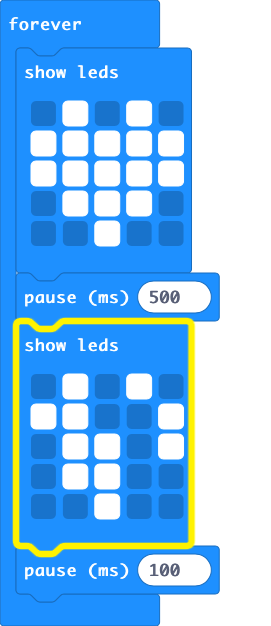
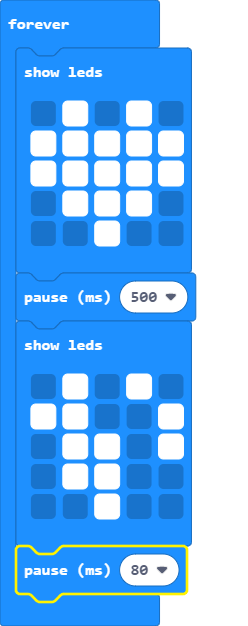
Update main.blocks, main.ts

diff --git a/main.ts b/main.ts
@@ -14,5 +14,5 @@ basic.forever(function () {
         . # # . .
         . . # . .
         `)
-    basic.pause(100)
+    basic.pause(80)
 })
